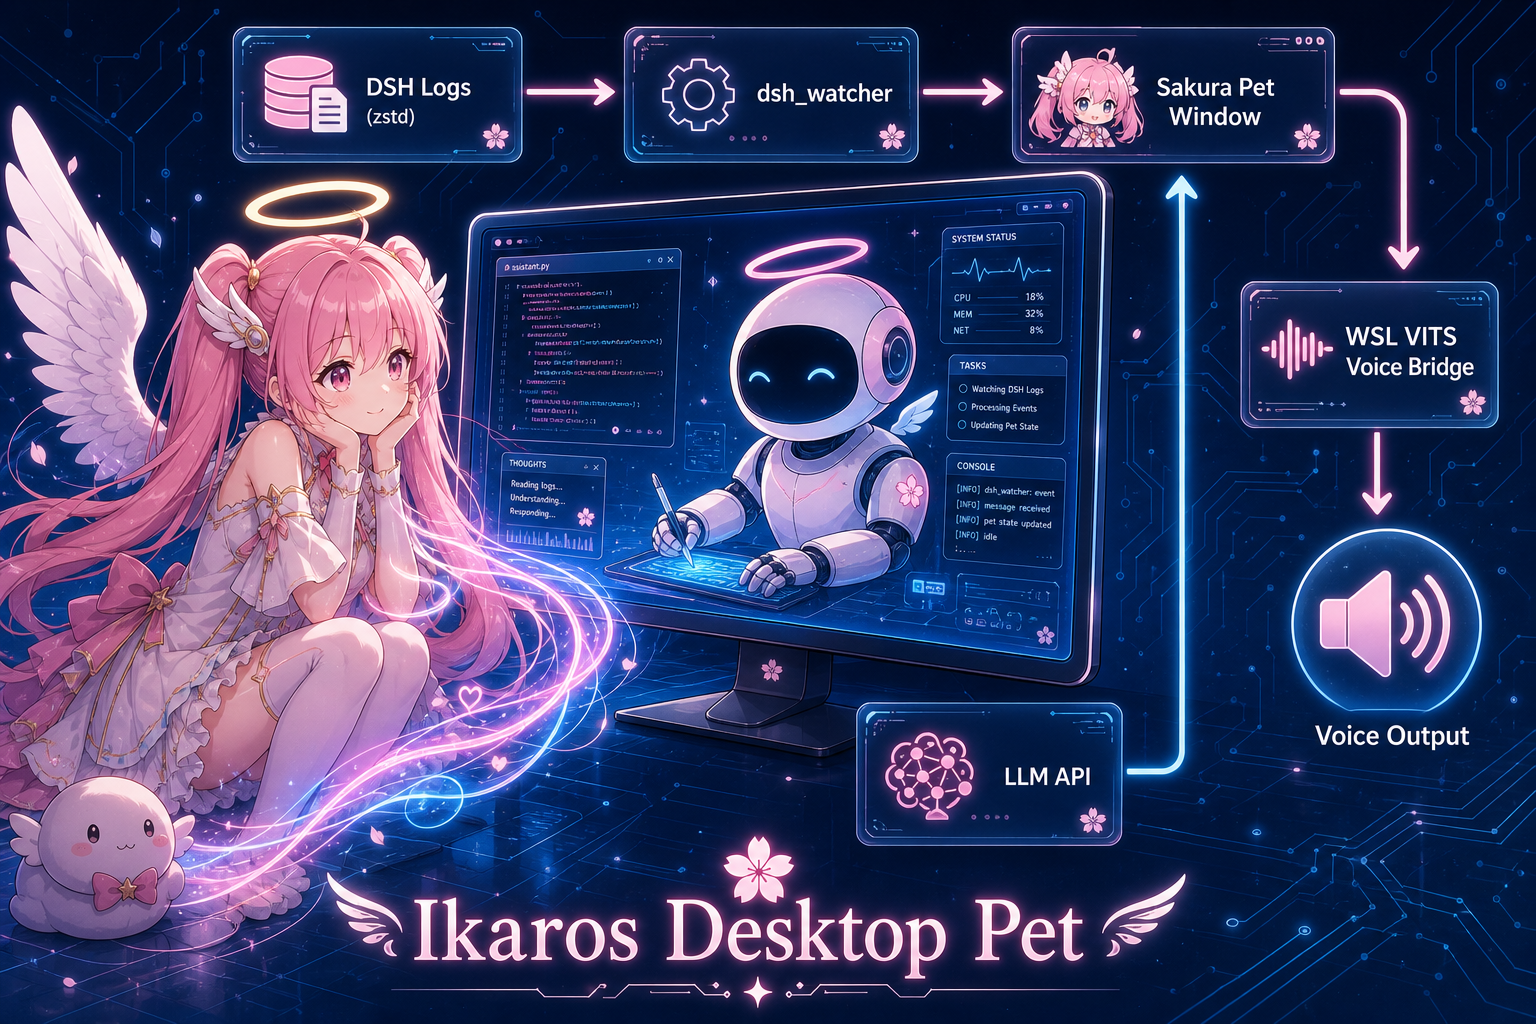
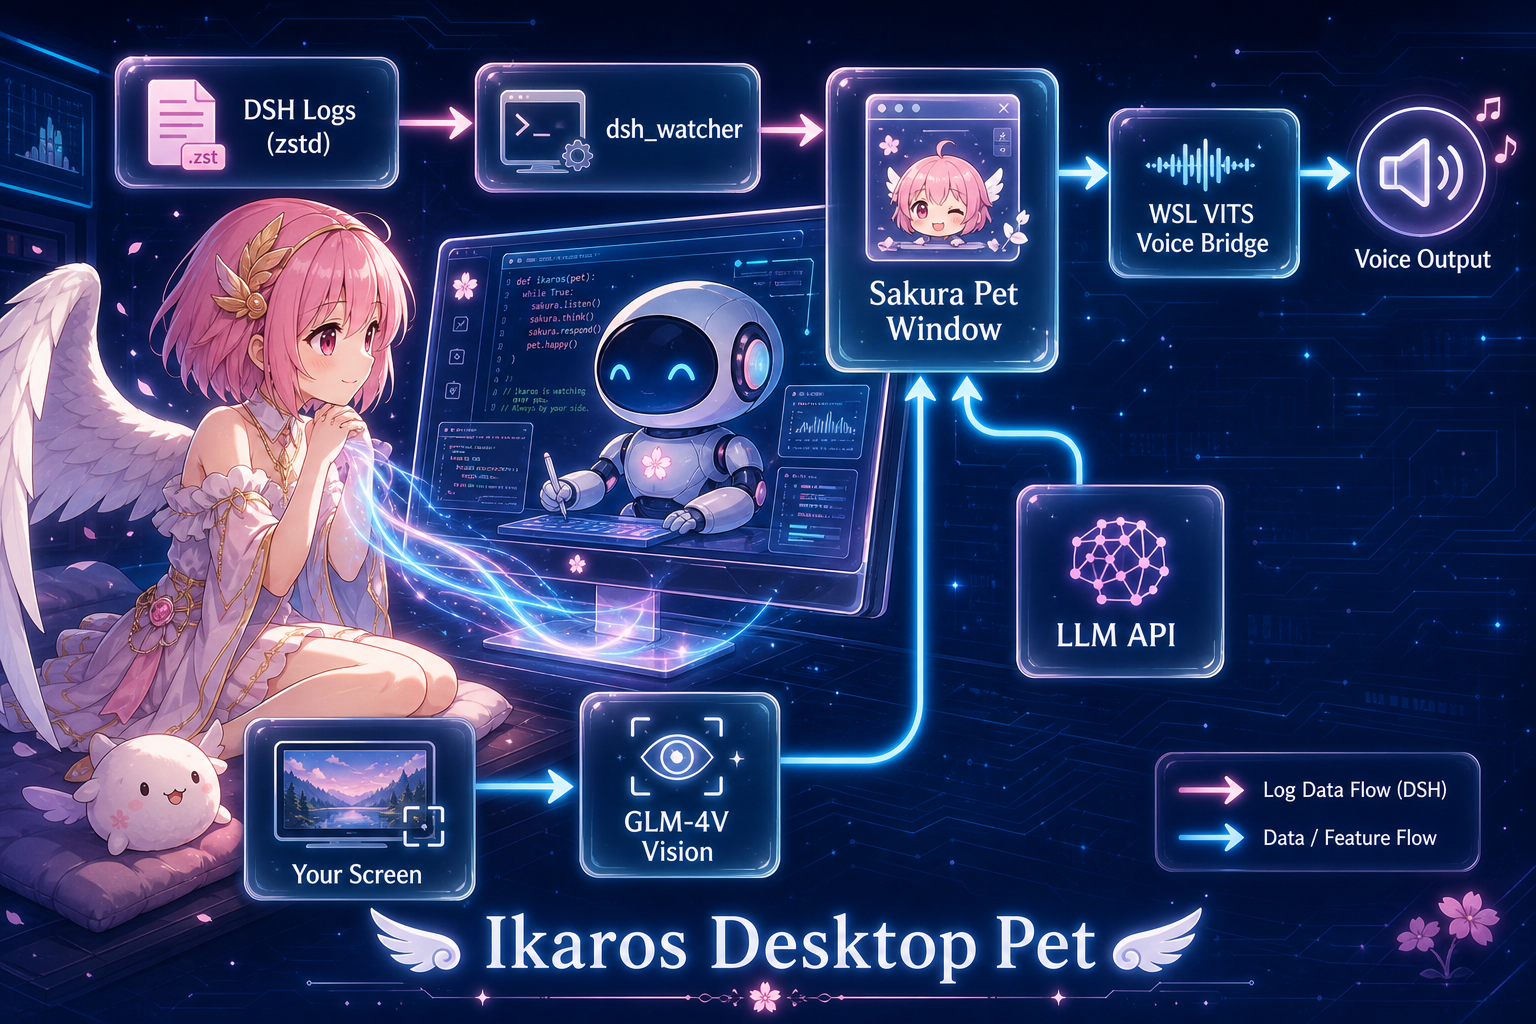
docs: 架构图加入屏幕感知链路（Your Screen→GLM-4V Vision）、横幅副标题改为看见屏幕、README/SETUP 补一键启停与退出即全关说明

diff --git a/README.md b/README.md
@@ -62,8 +62,9 @@
 3. **安装**：`install.bat`（自动复制角色包/插件/TTS 桥，并安装依赖 `zstandard`、`edge-tts`、`miniaudio`）。
 4. **应用本地补丁（必需）**：`python tools/apply_patches.py <Sakura目录>`（幂等，自动应用七处适配补丁；升级 Sakura 后重跑一次即可。补丁明细见 [docs/PATCHES.md](docs/PATCHES.md)）。
 5. **WSL 部署（声线）**：详见 [docs/SETUP.md](docs/SETUP.md)「WSL 部署」——在 WSL 内创建 venv、安装 torch CPU + pyopenjtalk + 依赖、下载模型文件放入 `tools/edge_tts_bridge/vits/saved_model/19/`。
-6. **启动**：`start_tts_bridge.bat`（起 VITS 桥）→ `start.bat`（起 Sakura）。
+6. **启动**：双击桌面「伊卡洛斯桌宠」快捷方式（自动起 VITS 桥 → 无黑窗启动 Sakura；也可手动 `start_tts_bridge.bat` → `start.bat`）。
 7. **首次配置**：选角色「伊卡洛斯」→ API 填 DeepSeek/GLM → TTS 指向 `http://127.0.0.1:9880/tts`（若桥启用了 `--auth-token`，地址需带 `?token=<令牌>`）。
+8. **关闭**：正常退出 Sakura 即**自动联动全关**（语音桥停止、守护任务禁用）；或运行 `stop-pet.bat` 手动全关。再次双击桌面图标即可恢复全部。
 
 ## ⚙ 配置说明
 

diff --git a/docs/SETUP.md b/docs/SETUP.md
@@ -189,6 +189,10 @@ Sakura\runtime\python.exe Sakura\tools\edge_tts_bridge\server.py
 - 打开 DSH 跑任务 → 关键节点（目标完成/工具失败）她会主动开口；
 - 屏幕上长时间建模/学习 → 每 10 分钟她按情境鼓励或提醒休息。
 
+**退出与重启**：正常关闭 Sakura 即自动联动关闭（语音桥停止、守护任务禁用）；
+再次启动用桌面「伊卡洛斯桌宠」快捷方式（自动恢复守护并启动桥与桌宠），
+或运行 `stop-pet.bat` 手动全关。详见 README「快速开始」第 6/8 步。
+
 ## 8. 立绘说明（个人素材，不入库）
 
 `characters/ikaros/portraits/` 是**本地个人素材**（AI 生成/自绘，涉及角色形象权利，
